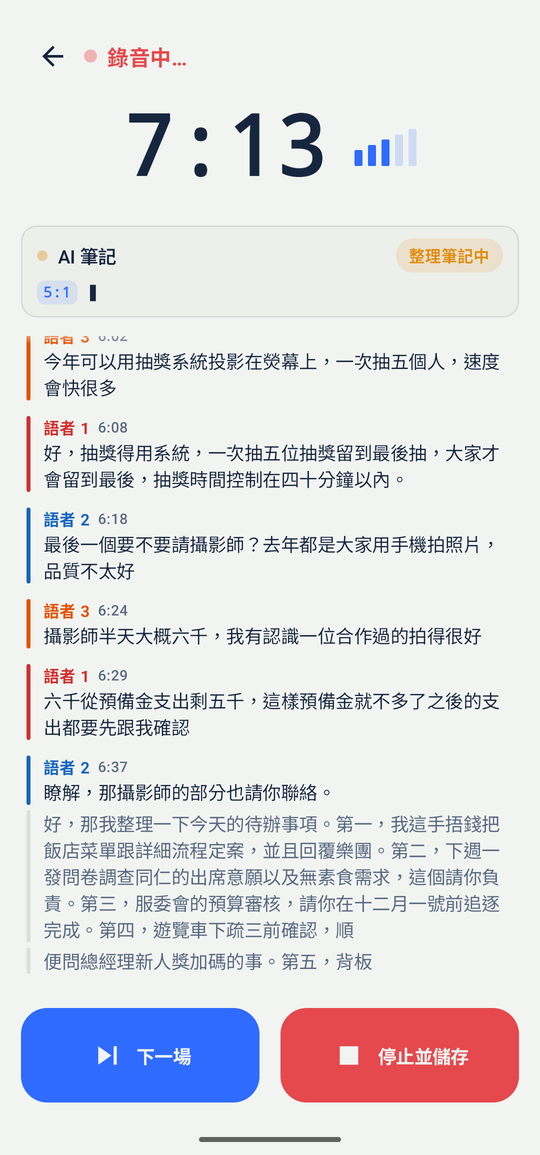
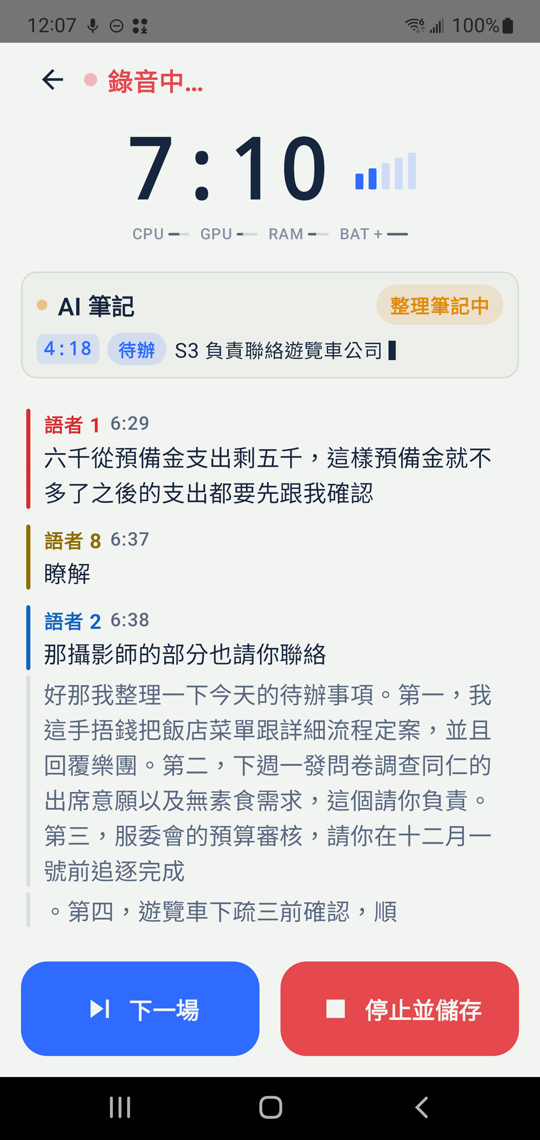
docs(guide): settings and studio screenshots re-shot on the Note10+ with the hardware gauges; studio section explains the gauges and why the first notes take a few minutes
Claude-Session: https://claude.ai/code/session_01KsCgNEd7UM8Bv5a1a9GKev

diff --git a/docs/USER_GUIDE.md b/docs/USER_GUIDE.md
@@ -110,11 +110,12 @@ flowchart TD
 
 <img src="guide/24b-capture-live.png" width="270" alt="錄音室"> <img src="guide/24-capture.png" width="270" alt="錄音室，模型載入中">
 
-逐字稿在說話約 0.4 秒後出現；語者確定後標上顏色，尚未確定的句子為淺灰。上方 **AI 筆記** 卡片顯示它正在閱讀逐字稿或正在寫筆記（正在寫的筆記逐字出現）。RAM 8 GB 以上的手機在錄音中同步閱讀；較小的手機在錄音結束後閱讀。第一次錄音時，模型下載的進度也顯示在這裡，麥克風在下載期間已開始錄音；下載後 AI 筆記模型會準備一次（「正在準備…（僅首次，約一分鐘）」）。
+逐字稿在說話約 0.4 秒後出現；語者確定後標上顏色，尚未確定的句子為淺灰。上方 **AI 筆記** 卡片顯示它正在閱讀逐字稿或正在寫筆記（正在寫的筆記逐字出現）。AI 筆記每讀滿一段逐字稿（約 1,500 個詞元）才寫一批，所以第一則筆記要等幾分鐘才出現（示範會議約在第 6 分鐘），這是正常的。計時器下方的細條是硬體狀態列（CPU、GPU、記憶體、電池；「BAT +」表示充電中），數值過高時轉紅，可在設定中關閉。RAM 8 GB 以上的手機在錄音中同步閱讀；較小的手機在錄音結束後閱讀。第一次錄音時，模型下載的進度也顯示在這裡，麥克風在下載期間已開始錄音；下載後 AI 筆記模型會準備一次（「正在準備…（僅首次，約一分鐘）」）。
 
 | 節點 | 如何到達 | 預期結果 | 驗證 |
 |---|---|---|---|
 | 計時器與音量條 | 錄音中 | 時間遞增，音量條隨聲音跳動 | ✅ 手動 |
+| 硬體狀態列 | 錄音中、AI 筆記閱讀中 | 計時器下方與 AI 筆記卡片內顯示細條，每 2 秒更新；關閉設定後隱藏 | ✅ 手動（Note 10+） |
 | 即時逐字稿 | 錄音中 | 文字即時出現，語者依序上色 | ✅ 手動（模擬器、Note 10+） |
 | AI 筆記卡片 | 錄音中（8 GB 以上） | 閱讀逐字稿 → 整理筆記中，筆記逐字出現 | ✅ 手動 |
 | 下一場 | 錄音中 | 存檔並立刻開始下一場；前一場自動處理 | ✅ 手動 |
